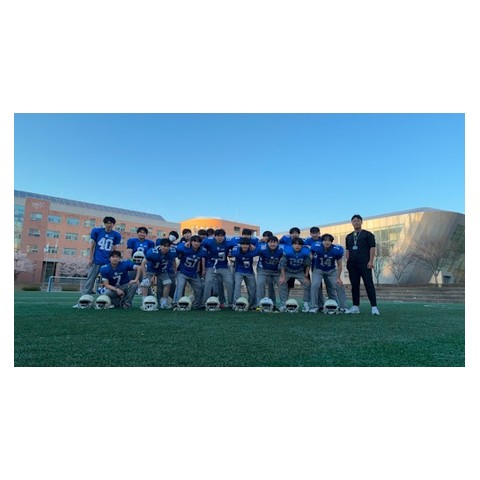
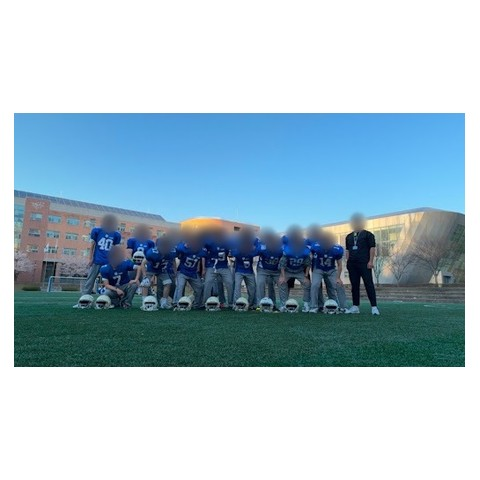
Add files via upload

Changed region(s): [[0.2812, 0.4375, 0.7812, 0.5312], [0.2188, 0.4375, 0.25, 0.5625]]

diff --git a/index.html b/index.html
@@ -11,8 +11,10 @@
     <link rel="stylesheet" type="text/css" href="stylesheet.css">
     <style>
       /* additions to the original template */
-      .name { font-size: 35px; }
-      h2 { font-size: 26px; }
+      /* name and section headings: Times New Roman Bold, 3pt larger than before (35px and 26px) */
+      .name, h2 { font-family: "Times New Roman", Times, "Liberation Serif", serif; font-weight: 700; }
+      .name { font-size: calc(35px + 3pt); }
+      h2 { font-size: calc(26px + 3pt); }
       .eq { white-space: nowrap; }
       /* research entries: title across the full width, then thumbnail (35%) + text */
       .paper-title { margin-bottom: 10px; }
